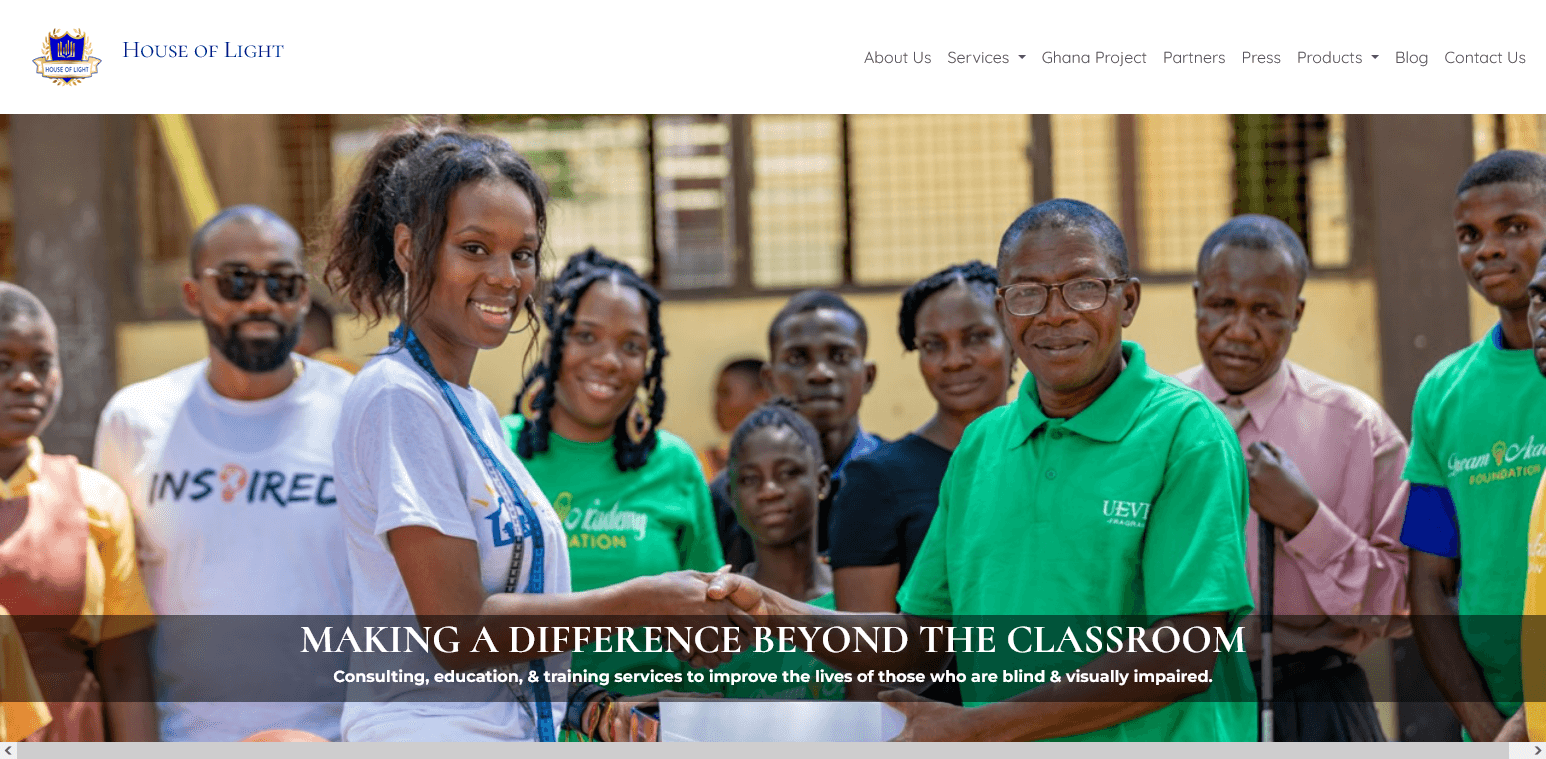
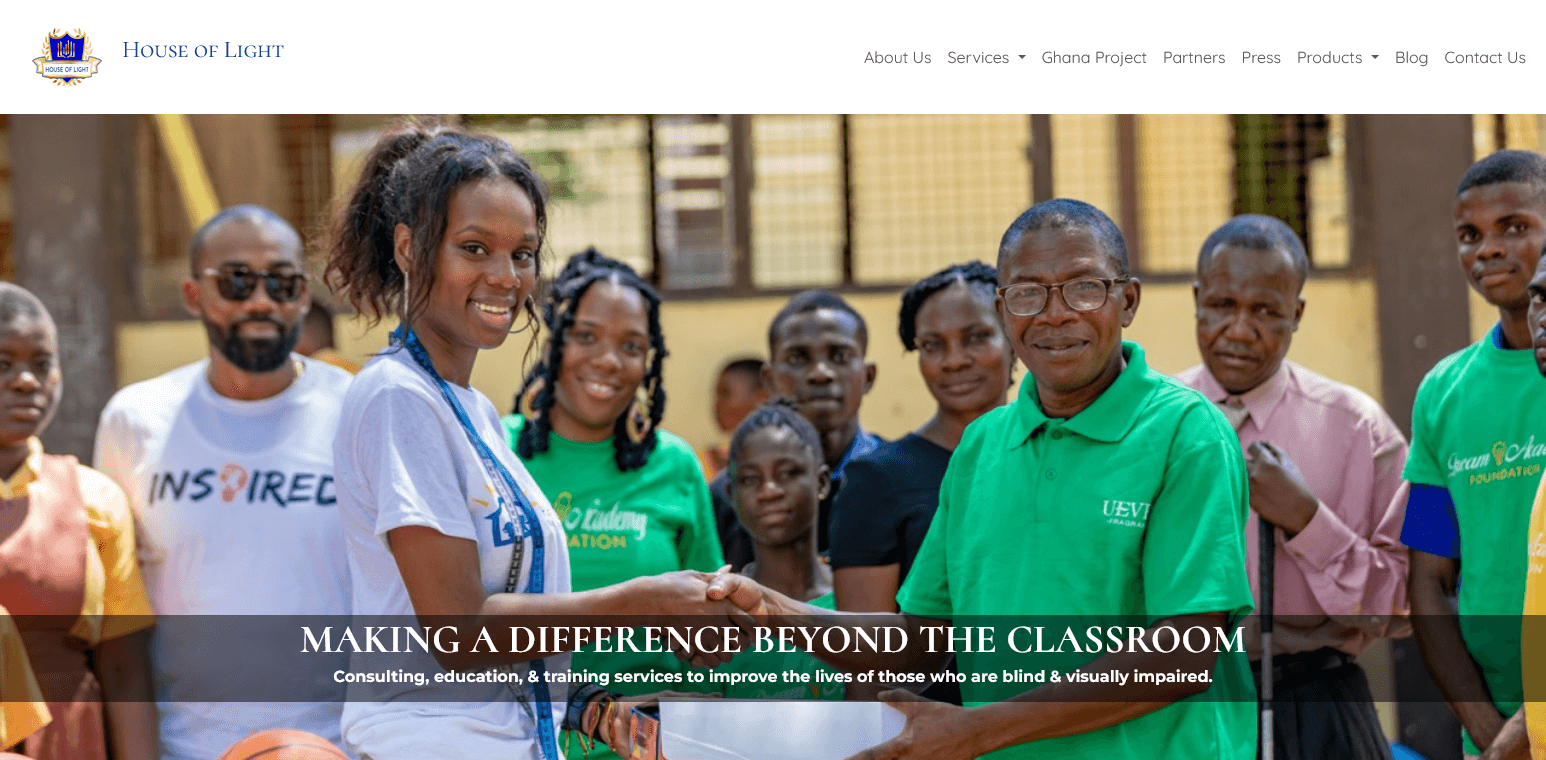
Add edited version of house of light picture to normal small and compressed

diff --git a/index.html b/index.html
@@ -197,7 +197,7 @@
               aria-describedby="link__desc"
               aria-labelledby="project-3__label"
               href="https://houseoflightllc.org/" target="_blank">
-              <img src="img/compressed/unplugged-small.png" alt="Unplugged thumbnail">
+              <img src="img/compressed/house-of-light-small.png" alt="Unplugged thumbnail">
             </a>
           </figure>
           <label for="project-3" id="project-2__label">
